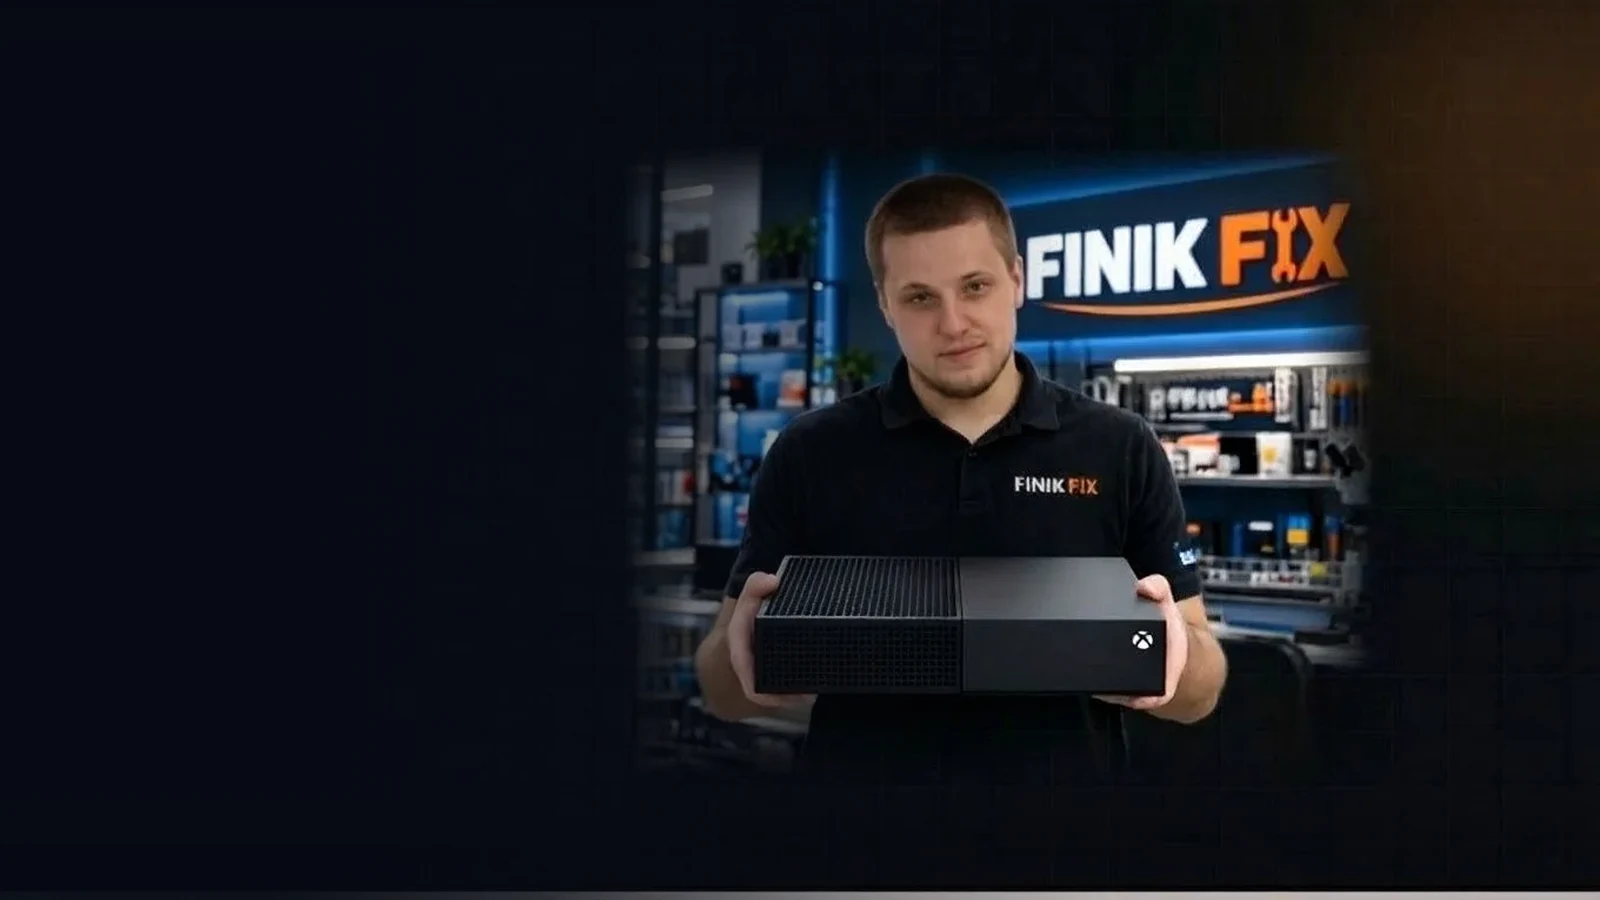
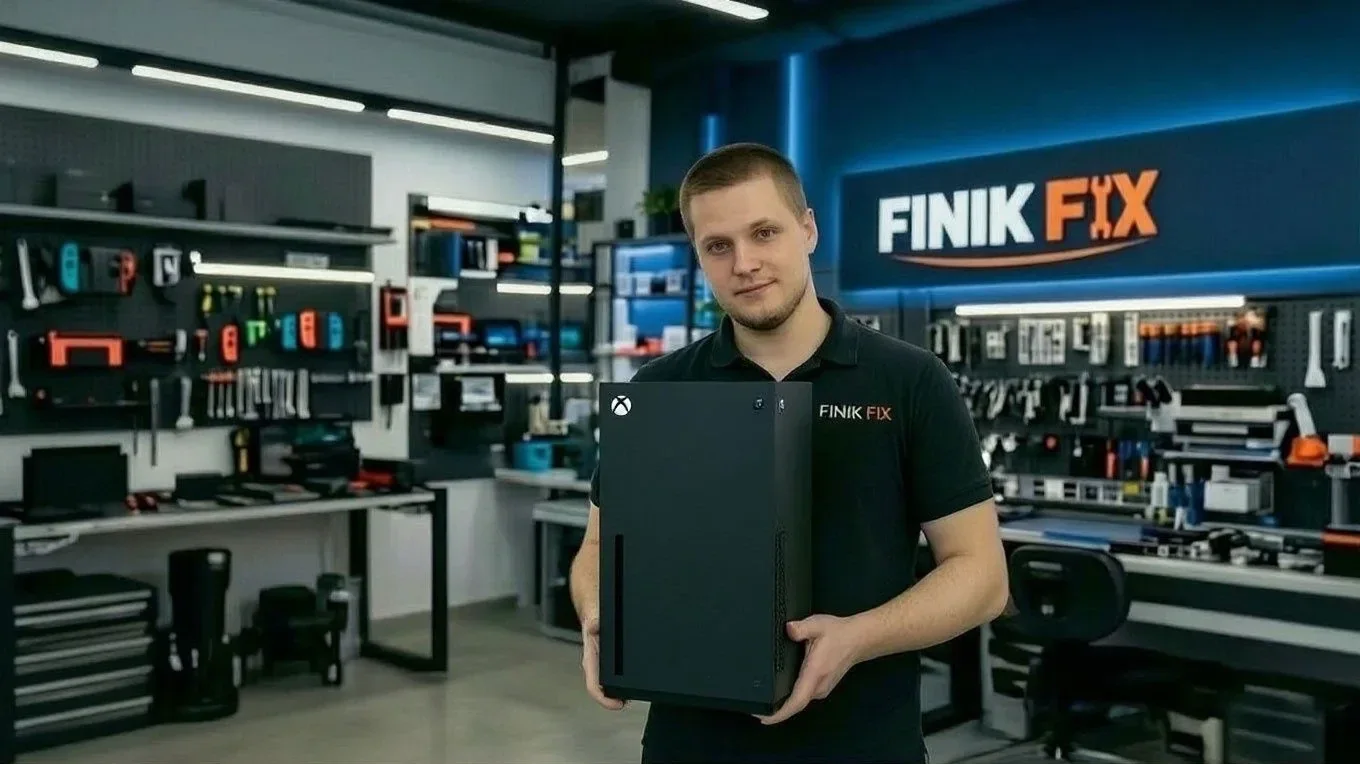
feat: новое фото мастера с Xbox вместо слайда Xbox, версионирование слайдов
- slide-02-xbox.webp заменён фото заказчика (1360×764, WebP, обрезана белая кайма)
- alt и позиция кадра обновлены; адреса слайдов с хешем против кэша
- исходник в design-source/, заметка в docs/CONTACTS.md и AGENTS.md

Claude-Session: https://claude.ai/code/session_01DqVFrqivG9PemBip9u8ZFM

diff --git a/AGENTS.md b/AGENTS.md
@@ -248,3 +248,5 @@ DualShock 4 — 1 299 ₽, Xbox Call of Duty — 3 000 ₽, Xbox Series S — 3 
 - Production не менялся: VPS работает на `5bf9d73`, `/api/lead` закрыт в nginx (503). Разблокировать только после теста реального письма и разрешения.
 
 **2026-10-27, форма заявки удалена.** Владелец отказался от заявок через сайт: убраны формы, «Оставить заявку», JS отправки, страница «Спасибо», модули `src/leads.mjs`, `src/mail.mjs`, скрипт тестовой почты (Postbox и Telegram не подключаются). `/api/lead` всегда отвечает 503 (nginx не менялся). Связь: «Позвонить» (`tel:+79016624589`), MAX, Telegram, плавающая панель с SVG-значками; калькуляторы сохранены, под ними кнопки связи. Политика, согласие, соглашение и рассылки переписаны под отсутствие формы (проекты до проверки юристом); упоминания «Мой налог» убраны. См. `docs/CONTACTS.md`: Telegram-ссылка и логотип MAX требуют подтверждения; фото из сообщения не получено. Production не менялся.
+
+**2026-10-27, фото Xbox.** Слайд Xbox заменён новым фото заказчика (мастер с Xbox Series X в мастерской, 1360×764 WebP, исходник в `design-source/`); alt и фокус `pos: 56%` в `heroSlides`. Адреса слайдов получили `?v=<хеш>` (`slideUrl()` в `templates.mjs`), чтобы браузер не показывал старое фото из кэша. Миниатюра категории Xbox (`cats/xbox.webp`) не менялась.

diff --git a/docs/CONTACTS.md b/docs/CONTACTS.md
@@ -5,4 +5,4 @@
 ## Что нужно уточнить
 - **Telegram.** Ссылка вида `t.me/+<номер>` открывает личный диалог только если у мастера в настройках конфиденциальности разрешён поиск по номеру; иначе откроется ошибка. Из среды разработки проверить это нельзя. Лучше подтвердить username мастера (не канал `@finik_fix`) и заменить `site.telegram`.
 - **Логотип MAX.** Официальный SVG получить не удалось (нет доступа к сайту MAX). В `src/icons.mjs` стоит упрощённый знак в цветах мессенджера. Заменить константу `MAX_MARK` на официальный файл из брендбука MAX. Логотипы Telegram и WhatsApp взяты из набора Simple Icons (CC0).
-- **Фото.** В сообщении фотография не пришла. Заглушка категории «Смартфоны и планшеты» пока на месте.
+- **Фото.** Новое фото (мастер с Xbox Series X на фоне вывески) заменило слайд Xbox `slide-02-xbox.webp` (исходник в `design-source/slide-02-xbox-2026-10-27.webp`). Заглушка категории «Смартфоны и планшеты» остаётся: для неё подходящего фото нет.
